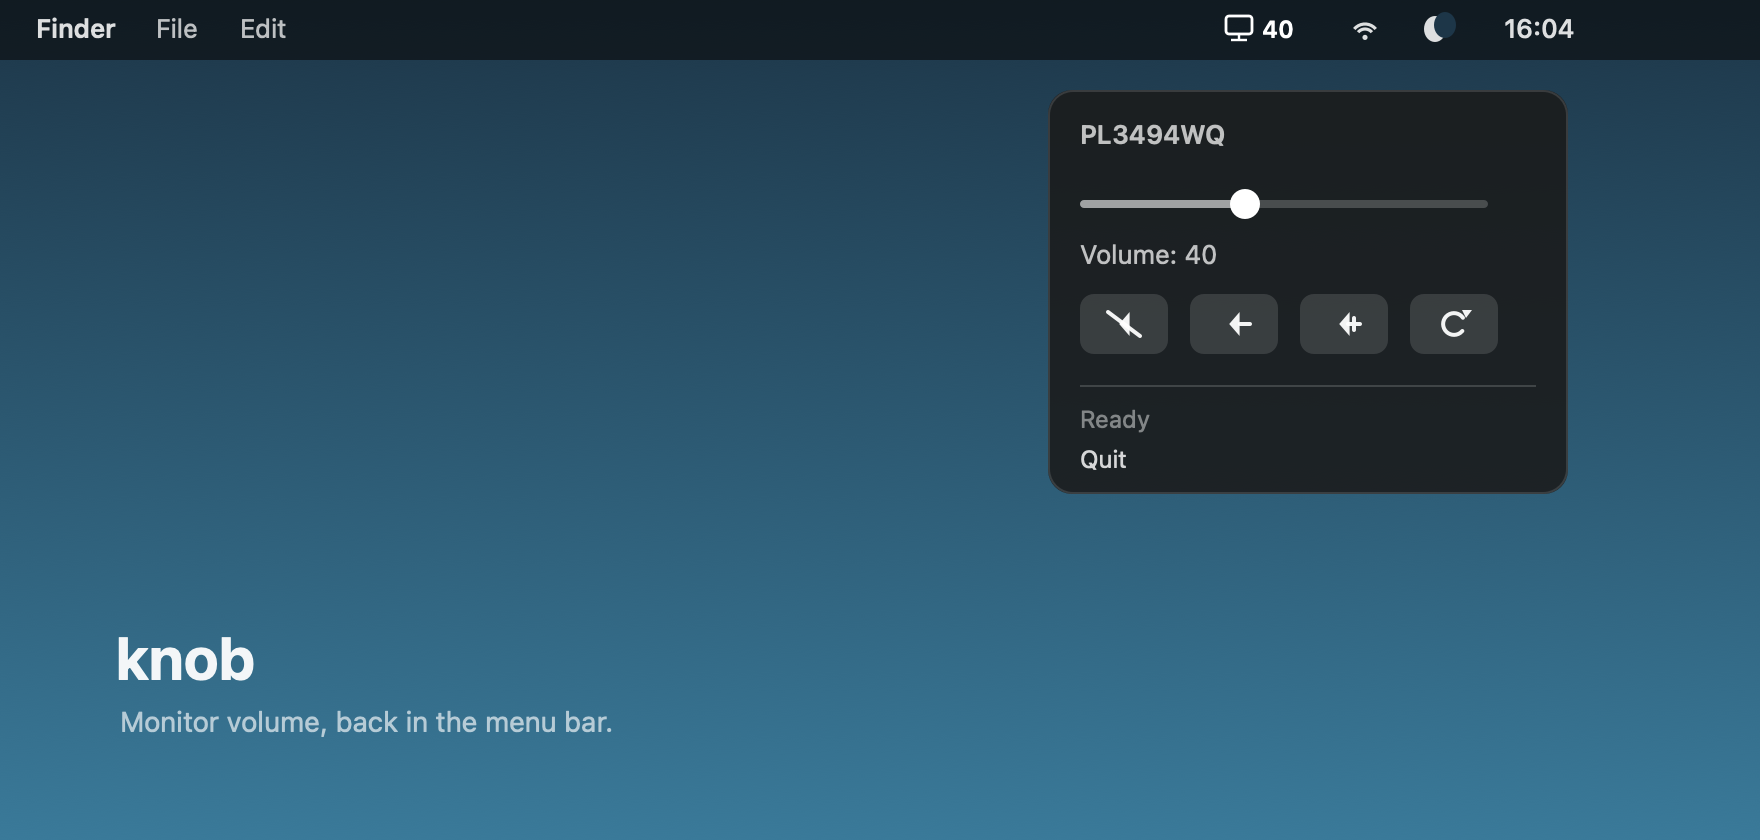
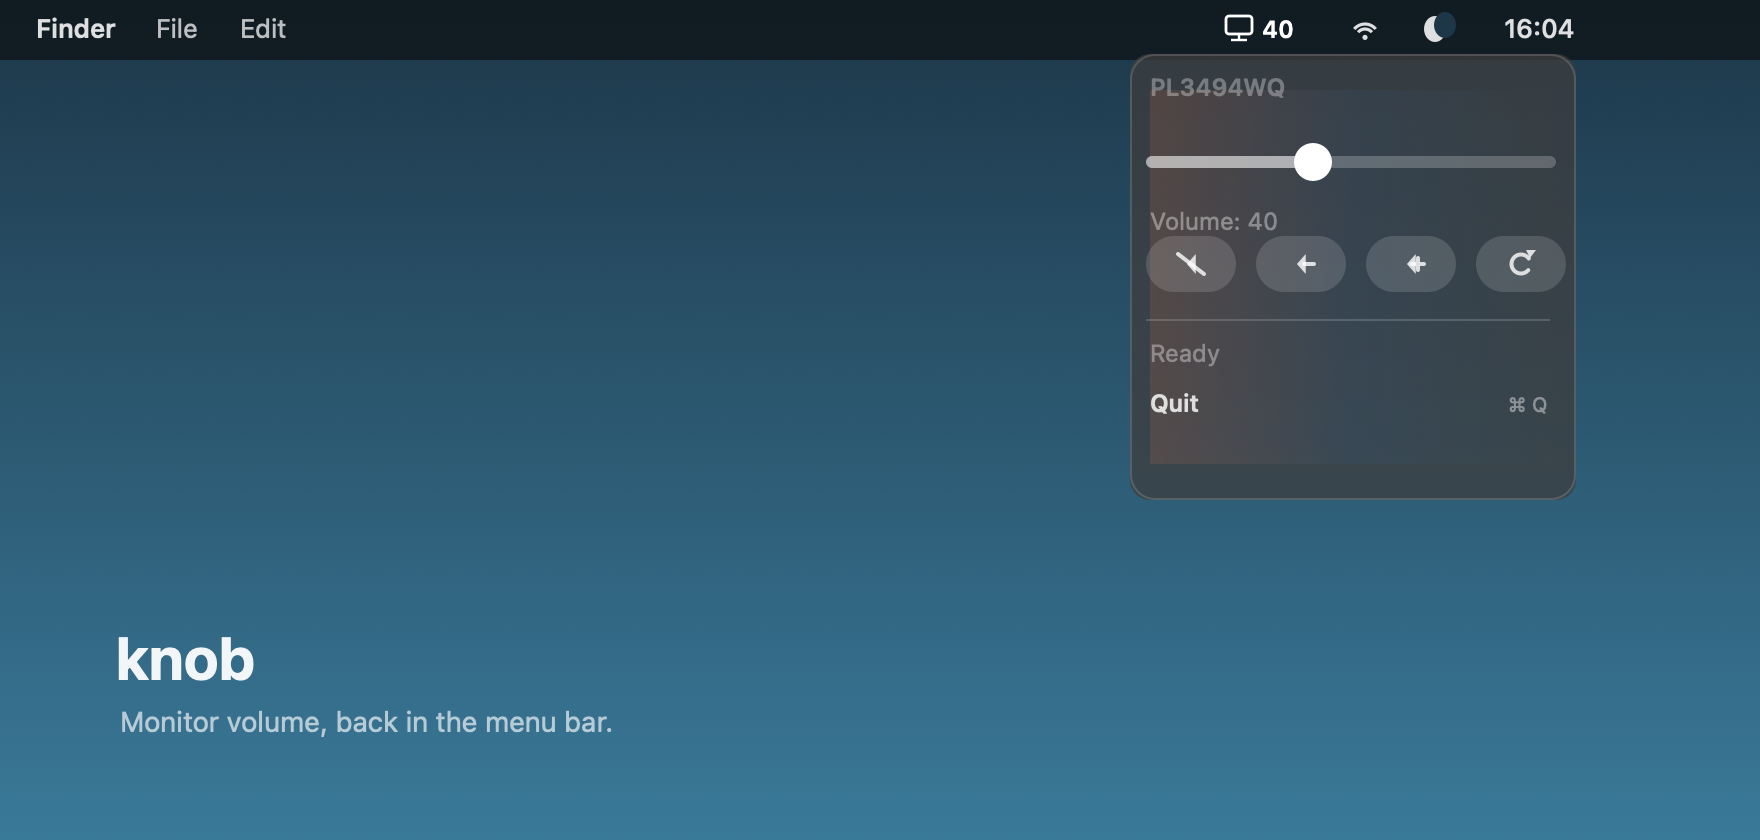
Match screenshot styling

Changed region(s): [[0.5938, 0.0619, 0.9062, 0.619]]

diff --git a/Tools/GenerateScreenshots.swift b/Tools/GenerateScreenshots.swift
@@ -140,39 +140,46 @@ func drawMenuBarBadge(x: CGFloat, y: CGFloat) {
     text("40", at: NSPoint(x: x + 19, y: y + 1.2), size: 12, weight: .semibold, color: .white)
 }
 
-func drawDropdown(origin: NSPoint, width: CGFloat = 260) {
-    let rect = NSRect(x: origin.x, y: origin.y, width: width, height: 202)
-    roundedRect(rect, radius: 12, color: NSColor(calibratedWhite: 0.08, alpha: 0.88))
-    NSColor.white.withAlphaComponent(0.13).setStroke()
+func drawDropdown(origin: NSPoint, width: CGFloat = 223) {
+    let rect = NSRect(x: origin.x, y: origin.y, width: width, height: 223)
+    roundedRect(rect, radius: 10, color: NSColor(calibratedWhite: 0.18, alpha: 0.74))
+    let glow = NSGradient(colors: [
+        NSColor(calibratedRed: 0.96, green: 0.38, blue: 0.24, alpha: 0.14),
+        NSColor(calibratedRed: 0.16, green: 0.35, blue: 0.70, alpha: 0.08),
+        NSColor.clear
+    ])!
+    glow.draw(in: rect.insetBy(dx: 10, dy: 18), angle: 0)
+    NSColor.white.withAlphaComponent(0.15).setStroke()
     let outline = NSBezierPath(roundedRect: rect.insetBy(dx: 0.5, dy: 0.5), xRadius: 12, yRadius: 12)
     outline.lineWidth = 1
     outline.stroke()
 
-    text("PL3494WQ", at: NSPoint(x: origin.x + 16, y: origin.y + 172), size: 13, weight: .semibold, color: .white.withAlphaComponent(0.72))
+    text("PL3494WQ", at: NSPoint(x: origin.x + 10, y: origin.y + 199), size: 12, weight: .semibold, color: .white.withAlphaComponent(0.32))
 
-    let sliderY = origin.y + 143
-    roundedRect(NSRect(x: origin.x + 16, y: sliderY, width: 204, height: 4), radius: 2, color: .white.withAlphaComponent(0.2))
-    roundedRect(NSRect(x: origin.x + 16, y: sliderY, width: 82, height: 4), radius: 2, color: .white.withAlphaComponent(0.48))
-    roundedRect(NSRect(x: origin.x + 91, y: sliderY - 5.5, width: 15, height: 15), radius: 7.5, color: .white)
+    let sliderY = origin.y + 166
+    roundedRect(NSRect(x: origin.x + 8, y: sliderY, width: width - 18, height: 6), radius: 3, color: .white.withAlphaComponent(0.22))
+    roundedRect(NSRect(x: origin.x + 8, y: sliderY, width: 86, height: 6), radius: 3, color: .white.withAlphaComponent(0.46))
+    roundedRect(NSRect(x: origin.x + 82, y: sliderY - 6.5, width: 19, height: 19), radius: 9.5, color: .white)
 
-    text("Volume: 40", at: NSPoint(x: origin.x + 16, y: origin.y + 112), size: 13, weight: .regular, color: .white.withAlphaComponent(0.72))
+    text("Volume: 40", at: NSPoint(x: origin.x + 10, y: origin.y + 132), size: 12, weight: .regular, color: .white.withAlphaComponent(0.38))
 
-    let buttonY = origin.y + 70
+    let buttonY = origin.y + 104
     let buttonSymbols = ["speaker.slash.fill", "speaker.minus.fill", "speaker.plus.fill", "arrow.clockwise"]
     for (index, name) in buttonSymbols.enumerated() {
-        let x = origin.x + 16 + CGFloat(index) * 55
-        roundedRect(NSRect(x: x, y: buttonY, width: 44, height: 30), radius: 7, color: .white.withAlphaComponent(0.13))
-        symbol(name, in: NSRect(x: x + 12, y: buttonY + 7, width: 20, height: 16), color: .white.withAlphaComponent(0.94))
+        let x = origin.x + 8 + CGFloat(index) * 55
+        roundedRect(NSRect(x: x, y: buttonY, width: 45, height: 28), radius: 14, color: .white.withAlphaComponent(0.14))
+        symbol(name, in: NSRect(x: x + 14, y: buttonY + 7, width: 17, height: 14), color: .white.withAlphaComponent(0.80))
     }
 
     NSColor.white.withAlphaComponent(0.16).setStroke()
     let divider = NSBezierPath()
-    divider.move(to: NSPoint(x: origin.x + 16, y: origin.y + 54))
-    divider.line(to: NSPoint(x: origin.x + width - 16, y: origin.y + 54))
+    divider.move(to: NSPoint(x: origin.x + 8, y: origin.y + 90))
+    divider.line(to: NSPoint(x: origin.x + width - 13, y: origin.y + 90))
     divider.stroke()
 
-    text("Ready", at: NSPoint(x: origin.x + 16, y: origin.y + 30), size: 12, color: .white.withAlphaComponent(0.45))
-    text("Quit", at: NSPoint(x: origin.x + 16, y: origin.y + 10), size: 12, color: .white.withAlphaComponent(0.82))
+    text("Ready", at: NSPoint(x: origin.x + 10, y: origin.y + 66), size: 12, color: .white.withAlphaComponent(0.36))
+    text("Quit", at: NSPoint(x: origin.x + 10, y: origin.y + 41), size: 12, weight: .semibold, color: .white.withAlphaComponent(0.82))
+    text("⌘ Q", at: NSPoint(x: origin.x + width - 34, y: origin.y + 41), size: 10, color: .white.withAlphaComponent(0.42))
 }
 
 let hero = try withBitmap(width: 880, height: 420) { width, height in
@@ -192,16 +199,16 @@ let hero = try withBitmap(width: 880, height: 420) { width, height in
     symbol("moon.fill", in: NSRect(x: width - 170, y: height - 22, width: 15, height: 15), color: .white.withAlphaComponent(0.86))
     text("16:04", at: NSPoint(x: width - 128, y: height - 22), size: 13, weight: .medium, color: .white.withAlphaComponent(0.86))
 
-    drawDropdown(origin: NSPoint(x: width - 356, y: height - 247), width: 260)
+    drawDropdown(origin: NSPoint(x: width - 315, y: height - 250), width: 223)
 
     text("knob", at: NSPoint(x: 58, y: 74), size: 30, weight: .bold, color: .white.withAlphaComponent(0.94))
     text("Monitor volume, back in the menu bar.", at: NSPoint(x: 60, y: 51), size: 14, color: .white.withAlphaComponent(0.64))
 }
 try write(hero, to: "knob-hero.png")
 
-let menu = try withBitmap(width: 360, height: 260) { width, height in
+let menu = try withBitmap(width: 223, height: 223) { width, height in
     NSColor(calibratedRed: 0.16, green: 0.25, blue: 0.32, alpha: 1).setFill()
     NSRect(x: 0, y: 0, width: width, height: height).fill()
-    drawDropdown(origin: NSPoint(x: 50, y: 28), width: 260)
+    drawDropdown(origin: NSPoint(x: 0, y: 0), width: 223)
 }
 try write(menu, to: "knob-menu.png")
